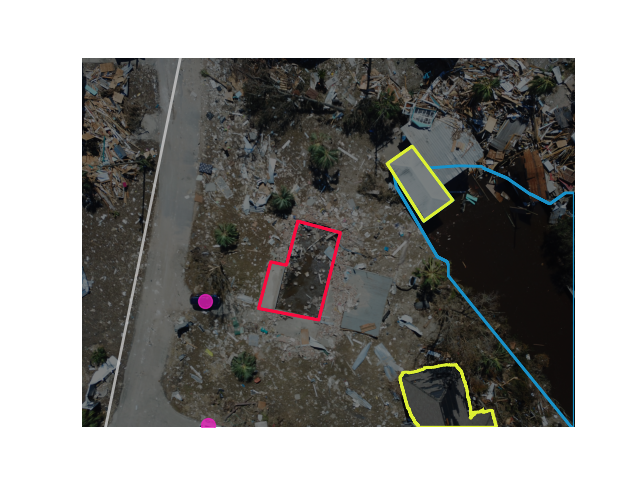
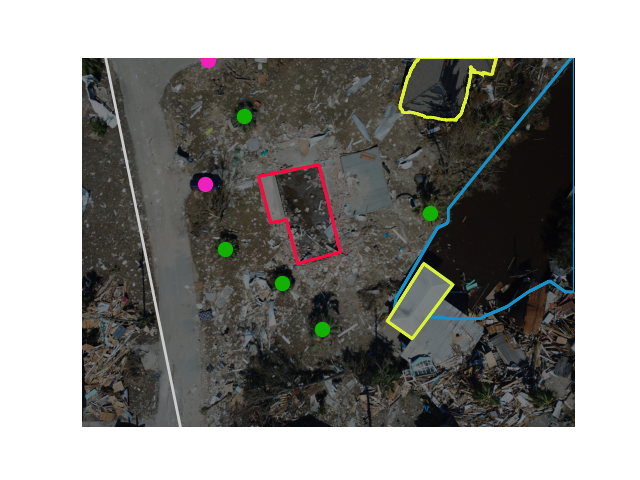
补充矢量化时的遗漏要素

diff --git a/Reduce/VecVisualize.py b/Reduce/VecVisualize.py
@@ -26,9 +26,9 @@ def load_color_map(file_path):
                 parts = line.split(",")
                 if len(parts) >= 6:
                     category = parts[-1].strip()
-                    rgb = [int(part) for part in parts[1:4]]
+                    rgb = [int(part) for part in parts[1:3]]
                     alpha = int(parts[3])
-                    color = "#{:02X}{:02X}{:02X}{:02X}".format(*rgb, alpha)
+                    color = "#{:02X}{:02X}{:02X}".format(*rgb, alpha)
                     color_map[category] = color
     return color_map
 
@@ -69,13 +69,13 @@ def draw_vectors_on_image(image_path, vectors, color_map, output_path):
     # 将图像亮度降低到原来的一定比例
     brightness_factor = 0.5  # 这里的0.5表示亮度变为原来的50%
     img_darker = np.clip(img * brightness_factor, 0, 255).astype(np.uint8)
+    # 垂直翻转图像
+    img_darker = np.flipud(img_darker)
+
 
     fig, ax = plt.subplots()
     ax.imshow(img_darker)  # 显示变暗的图像
     ax.axis('off')  # 关闭坐标轴
-
-
-
 
     # 遍历features，绘制每种几何类型
     for feature in vectors['features']:
@@ -86,36 +86,20 @@ def draw_vectors_on_image(image_path, vectors, color_map, output_path):
 
         if feature_type == "Polygon":
             # 处理多边形
-            poly = Polygon(coordinates[0], closed=True, edgecolor=color, facecolor='none', linewidth=2, alpha=1)
+            # 调整坐标系，将y坐标反转
+            adjusted_coordinates = [(x, img_height - y) for x, y in coordinates[0]]
+            poly = Polygon(adjusted_coordinates, closed=True, edgecolor=color, facecolor='none', linewidth=2, alpha=1)
             ax.add_patch(poly)
         elif feature_type == "Polyline":
-            xs, ys = zip(*coordinates)  # 解包坐标点
+            # 调整坐标系，将y坐标反转
+            adjusted_coordinates = [(x, img_height - y) for x, y in coordinates]
+            xs, ys = zip(*adjusted_coordinates)  # 解包坐标点
             ax.plot(xs, ys, color=color, linewidth=2)  # 绘制折线
-            # # 计算中心线坐标
-            # center_line_xs = []
-            # center_line_ys = []
-            #
-            # # 计算每段线段的中点
-            # for i in range(len(xs) - 1):
-            #     mid_x = (xs[i] + xs[i + 1]) / 2
-            #     mid_y = (ys[i] + ys[i + 1]) / 2
-            #     center_line_xs.append(mid_x)
-            #     center_line_ys.append(mid_y)
-            #
-            # # 添加起点和终点
-            # center_line_xs = [xs[0]] + center_line_xs + [xs[-1]]
-            # center_line_ys = [ys[0]] + center_line_ys + [ys[-1]]
-            #
-            #
-            # # 绘制中心线
-            # plt.plot(center_line_xs, center_line_ys, color=color)
-
-
-
         elif feature_type == "Point":
             if len(coordinates) > 1:  # 确保坐标点数量正确
                 x, y = coordinates  # 直接解包坐标点
-                ax.plot(x, y, marker="o", color=color, markersize=10)  # 绘制点
+                # 调整坐标系，将y坐标反转
+                ax.plot(x, img_height - y, marker="o", color=color, markersize=10)  # 绘制点
 
     # 设置坐标范围
     ax.set_xlim(0, img_width)
